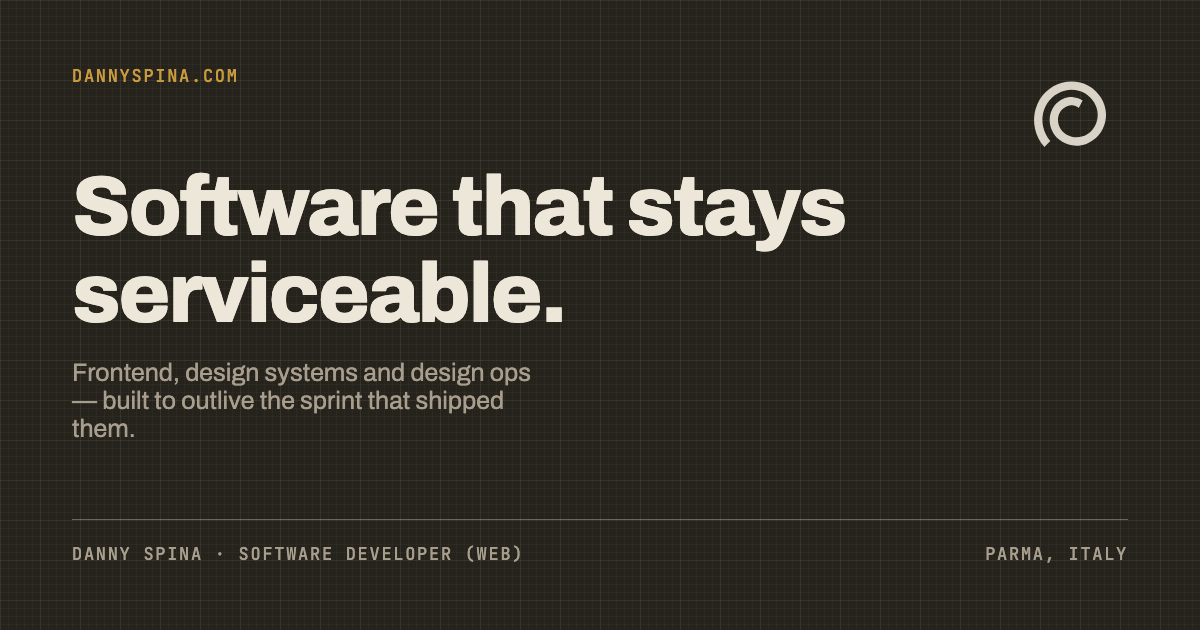
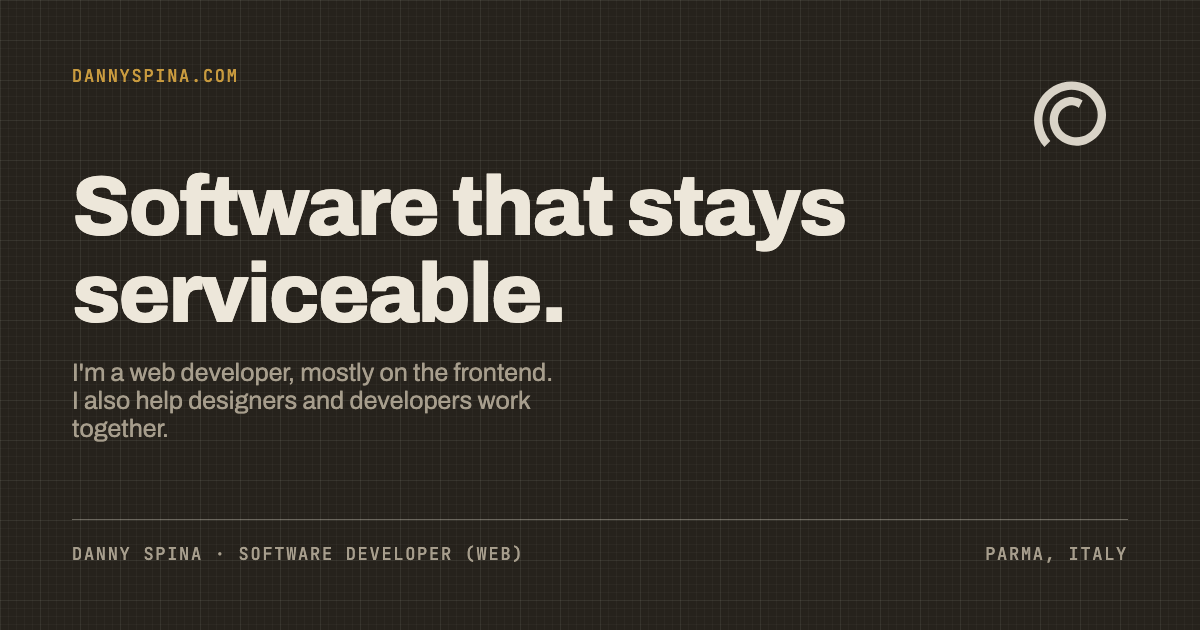
fix: rewrite the home and service copy in plain words

Changed region(s): [[0.0617, 0.573, 0.4625, 0.6937]]

diff --git a/src/routes/services/frontend-design-systems/+page.svelte b/src/routes/services/frontend-design-systems/+page.svelte
@@ -9,60 +9,62 @@
     { key: "LANGUAGES", value: "IT &middot; DE &middot; EN" },
     {
       key: "COMPATIBILITY",
-      value: "Vue &middot; web components<br />framework-agnostic by design",
+      value: "Vue &middot; web components<br />works with any framework",
     },
     {
       key: "PRICING",
-      value: "fixed quote or monthly<br />agreed at intake, no surprises",
+      value: "fixed quote or monthly<br />agreed before we start",
     },
   ];
 
   const scope = [
     {
       title: "Design tokens",
-      desc: "Color, type, spacing as one source of truth — from Figma to production.",
+      desc: "Colors, type and spacing defined once and used both in Figma and in the code.",
     },
     {
       title: "Component libraries",
-      desc: "Web components or framework-native, built to survive team turnover.",
+      desc: "Web components or components in your framework, whatever fits better.",
     },
     {
       title: "UI architecture",
-      desc: "State, styling, composition: structure that scales past the third screen.",
+      desc: "How state, styles and components are organized in the app.",
     },
     {
       title: "Documentation & adoption",
-      desc: "A system nobody uses is a folder. Docs, examples, contribution rules.",
+      desc: "Docs and examples for every component, plus rules for contributing.",
     },
   ];
 
   const procedure = [
-    { label: "INTAKE", desc: "30-minute call, free. You state the problem." },
+    {
+      label: "INTAKE",
+      desc: "A free 30-minute call where you tell me the problem.",
+    },
     {
       label: "INVENTORY",
-      desc: "Audit of the existing UI: what exists, what repeats, what drifts.",
+      desc: "I go through the existing UI and list what's there and what repeats.",
     },
     {
       label: "BUILD",
-      desc: "Tokens first, then components — shipped incrementally, never big-bang.",
+      desc: "Tokens first, then components, released step by step.",
     },
     {
       label: "HANDOVER",
-      desc: "Docs and contribution rules. The team owns it, not me.",
+      desc: "I hand the system over to the team, with docs and contribution rules.",
     },
   ];
 </script>
 
 <Seo
   title="Frontend &amp; design systems"
-  description="Design systems, design tokens and component libraries that survive team turnover — built in Vue and web components, framework-agnostic by design."
+  description="Design systems, design tokens and component libraries, built with Vue or web components and usable with any framework."
   schema={{
     "@context": "https://schema.org",
     "@type": "Service",
     name: "Frontend & design systems",
     serviceType: "Frontend and design systems",
-    description:
-      "Design systems, design tokens and component libraries that survive team turnover.",
+    description: "Design systems, design tokens and component libraries.",
     provider: { "@type": "Person", name: SITE_NAME, url: SITE_URL },
     areaServed: ["IT", "DE", "EU"],
   }}
@@ -72,7 +74,7 @@
   sheetRef="DS·SRV·02"
   revNote="REV 01 · 2026–07"
   title="Frontend & design systems"
-  lead="For interfaces that grew one exception at a time. I turn scattered screens into a system: tokens, components and documentation that hold up when the team changes."
+  lead="In many apps every screen is built a little differently. I turn that into a design system, with tokens, components and docs the whole team can use."
   {scope}
   {tolerances}
   {procedure}

diff --git a/src/routes/services/design-ops/+page.svelte b/src/routes/services/design-ops/+page.svelte
@@ -9,60 +9,63 @@
     { key: "LANGUAGES", value: "IT &middot; DE &middot; EN" },
     {
       key: "COMPATIBILITY",
-      value: "Figma &middot; design tokens<br />your stack, your tools",
+      value: "Figma &middot; design tokens<br />the tools you already use",
     },
     {
       key: "PRICING",
-      value: "fixed quote or monthly<br />agreed at intake, no surprises",
+      value: "fixed quote or monthly<br />agreed before we start",
     },
   ];
 
   const scope = [
     {
       title: "Token pipeline",
-      desc: "Design decisions as code: from Figma variables into CI, drift caught early.",
+      desc: "Figma variables exported as code and checked in CI.",
     },
     {
       title: "Handoff & workflows",
-      desc: "Specs developers actually read; reviews that catch problems before release.",
+      desc: "Short specs and reviews that catch problems before release.",
     },
     {
       title: "Tooling",
-      desc: "Figma-to-code bridges, linting, scaffolds — the boring glue that saves weeks.",
+      desc: "Plugins and scripts between Figma and code, plus linting and project templates.",
     },
     {
       title: "Process & rituals",
-      desc: "Design reviews, contribution flows, naming that sticks after I leave.",
+      desc: "Regular design reviews, contribution rules and naming conventions.",
     },
   ];
 
   const procedure = [
-    { label: "INTAKE", desc: "30-minute call, free. You state the problem." },
+    {
+      label: "INTAKE",
+      desc: "A free 30-minute call where you tell me the problem.",
+    },
     {
       label: "OBSERVE",
-      desc: "I watch how design ships today — where it stalls. Numbers, not impressions.",
+      desc: "I look at how design gets into code today and where it gets stuck.",
     },
     {
       label: "WIRE",
-      desc: "Tokens, tooling, handoff — connected one piece at a time.",
+      desc: "I connect tokens, tools and handoff one piece at a time.",
     },
     {
       label: "EMBED",
-      desc: "Rituals documented and rehearsed. The team runs it without me.",
+      desc: "I write down the process and try it with the team until it works without me.",
     },
   ];
 </script>
 
 <Seo
   title="Design ops"
-  description="Design ops: token pipelines, Figma-to-code workflows and rituals that bridge design and engineering teams."
+  description="Design ops: token pipelines, Figma-to-code workflows and processes that help designers and developers work together."
   schema={{
     "@context": "https://schema.org",
     "@type": "Service",
     name: "Design ops",
     serviceType: "Design ops",
     description:
-      "Token pipelines, Figma-to-code workflows and rituals that bridge design and engineering teams.",
+      "Token pipelines, Figma-to-code workflows and processes that help designers and developers work together.",
     provider: { "@type": "Person", name: SITE_NAME, url: SITE_URL },
     areaServed: ["IT", "DE", "EU"],
   }}
@@ -72,7 +75,7 @@
   sheetRef="DS·SRV·03"
   revNote="REV 01 · 2026–07"
   title="Design ops"
-  lead="For teams where design and engineering ship past each other. I build the bridge: shared tokens, working handoffs, and rituals that survive the next deadline."
+  lead="I help designers and developers work from the same tokens and the same specs. Most of the time I start with the handoff between the two."
   {scope}
   {tolerances}
   {procedure}

diff --git a/src/routes/services/software-development/+page.svelte b/src/routes/services/software-development/+page.svelte
@@ -13,49 +13,52 @@
     },
     {
       key: "PRICING",
-      value: "fixed quote or monthly<br />agreed at intake, no surprises",
+      value: "fixed quote or monthly<br />agreed before we start",
     },
   ];
 
   const scope = [
     {
       title: "Feature development",
-      desc: "New capabilities, from data model to UI.",
+      desc: "New features, from the data model to the UI.",
     },
     {
       title: "Architecture & refactoring",
-      desc: "Structure that survives the next three features, not just the demo.",
+      desc: "Cleaning up the parts of the code that slow the team down.",
     },
     {
       title: "Frontend & design systems",
-      desc: "The special focus: UI architecture, component libraries, tokens.",
+      desc: "Most of my work is here: UI architecture, component libraries and tokens.",
     },
     {
       title: "Maintenance",
-      desc: "The unglamorous work: upgrades, dependencies, performance, bugs.",
+      desc: "Upgrades, dependency updates, performance and bug fixes.",
     },
   ];
 
   const procedure = [
-    { label: "INTAKE", desc: "30-minute call, free. You state the problem." },
+    {
+      label: "INTAKE",
+      desc: "A free 30-minute call where you tell me the problem.",
+    },
     {
       label: "MEASURE",
-      desc: "I read the codebase before promising anything. Numbers, not impressions.",
+      desc: "I read the codebase before promising anything.",
     },
     {
       label: "BUILD",
-      desc: "Features, refactors, fixes — shipped in small, reviewable steps.",
+      desc: "Features, refactors and fixes in small steps that are easy to review.",
     },
     {
       label: "DOCUMENT",
-      desc: "Decision records your next hire can read without a guide.",
+      desc: "I write down the important decisions and the reasons behind them.",
     },
   ];
 </script>
 
 <Seo
   title="Software development"
-  description="Software development for the web: features, architecture and maintenance for TypeScript and Vue codebases, with a special focus on frontend and design ops."
+  description="Web software development: new features, refactoring and maintenance for TypeScript and Vue codebases."
   schema={{
     "@context": "https://schema.org",
     "@type": "Service",
@@ -72,7 +75,7 @@
   sheetRef="DS·SRV·01"
   revNote="REV 02 · 2026–07"
   title="Software development"
-  lead="For products that grew faster than their structure. I open the codebase, measure what is actually there, and build what is missing — features, refactors, maintenance — with your team, not instead of it."
+  lead="I join your team and work on the code with you, from new features to maintenance."
   {scope}
   {tolerances}
   {procedure}

diff --git a/src/routes/+page.svelte b/src/routes/+page.svelte
@@ -28,21 +28,21 @@
     {
       n: "01",
       title: "Software development",
-      desc: "Web software end to end: features, architecture, maintenance.",
+      desc: "Building features for web apps and keeping the code in good shape.",
       sheet: "DS·SRV·01",
       href: "/services/software-development",
     },
     {
       n: "02",
       title: "Frontend & design systems",
-      desc: "Special focus: UI architecture, component libraries that survive team turnover.",
+      desc: "UI architecture, component libraries and design tokens.",
       sheet: "DS·SRV·02",
       href: "/services/frontend-design-systems",
     },
     {
       n: "03",
       title: "Design ops",
-      desc: "The bridge between design and engineering teams.",
+      desc: "Getting designs from Figma into code with less back and forth.",
       sheet: "DS·SRV·03",
       href: "/services/design-ops",
     },
@@ -76,7 +76,7 @@
     {
       years: "2017–20",
       client: "3m5. · DE",
-      desc: "Ausbildung: 3-year apprenticeship as software developer — PHP, React, Docker",
+      desc: "3-year apprenticeship (Ausbildung) as software developer: PHP, React, Docker",
       tag: "[apprenticeship]",
     },
   ];
@@ -84,7 +84,7 @@
 
 <Seo
   title="Danny Spina — software developer"
-  description="Danny Spina — software developer (web) in Parma, Italy. Special focus on frontend and design ops. Software that stays serviceable."
+  description="Danny Spina, web developer in Parma, Italy. I mostly build frontends and help designers and developers work together."
   schema={{
     "@context": "https://schema.org",
     "@graph": [
@@ -211,7 +211,7 @@
 <section class="bench-strip">
   <p class="text">
     <span class="strip-label">OFF THE BENCH &mdash;</span> I also repair mechanical
-    cameras, write a book on the method, and build my own bench tools: forfy &middot;
+    cameras and I'm writing a book about it. I build small apps too: forfy &middot;
     strider &middot; pit stop.
   </p>
   <a class="workshop" href="/workshop">THE WORKSHOP &rarr;</a>

diff --git a/src/lib/siteConfig.ts b/src/lib/siteConfig.ts
@@ -7,7 +7,7 @@ export const SITE_NAME = "Danny Spina";
 export const AUTHOR_NAME = "Danny Spina";
 
 export const DEFAULT_DESCRIPTION =
-  "Danny Spina — software developer (web) in Parma, Italy. Special focus on frontend and design ops. Software that stays serviceable.";
+  "Danny Spina, web developer in Parma, Italy. I mostly build frontends and help designers and developers work together.";
 
 /* 1200×630 card rendered from the site's own tokens, see scripts/og_image.html */
 export const DEFAULT_OG_IMAGE = "/og-default.png";

diff --git a/scripts/og_image.html b/scripts/og_image.html
@@ -139,8 +139,8 @@
     <div>
       <h1>Software that stays serviceable.</h1>
       <p class="lead">
-        Frontend, design systems and design ops &mdash; built to outlive the
-        sprint that shipped them.
+        I'm a web developer, mostly on the frontend. I also help designers and
+        developers work together.
       </p>
     </div>
 
